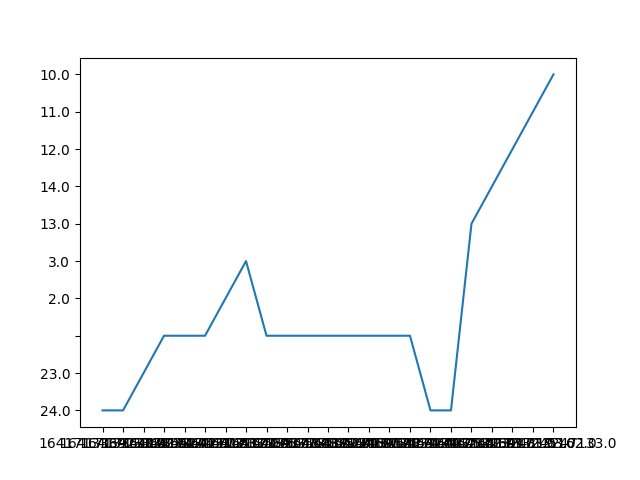
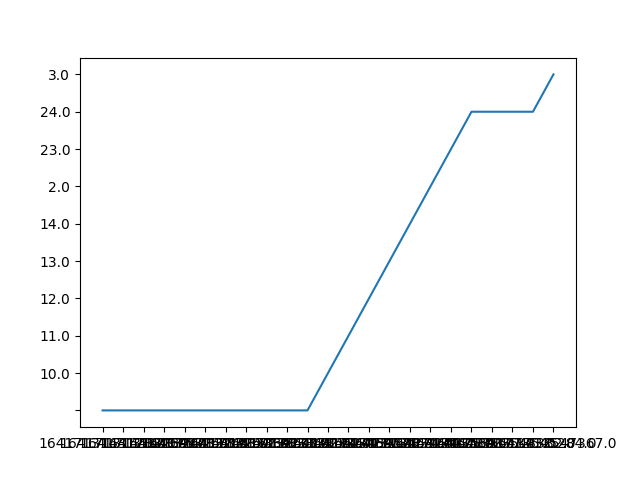
add

diff --git a/json_convert_to_csv/sender_info.py b/json_convert_to_csv/sender_info.py
@@ -34,6 +34,8 @@ def save_f(_topic, _data_list, _device):
             device_concat.append(i)
 
     device_concat.sort()
+    x_list.sort()
+    y_list.sort()
     device_concat.insert(0, device_concat[len(device_concat)-1])
     device_concat.pop()
 
